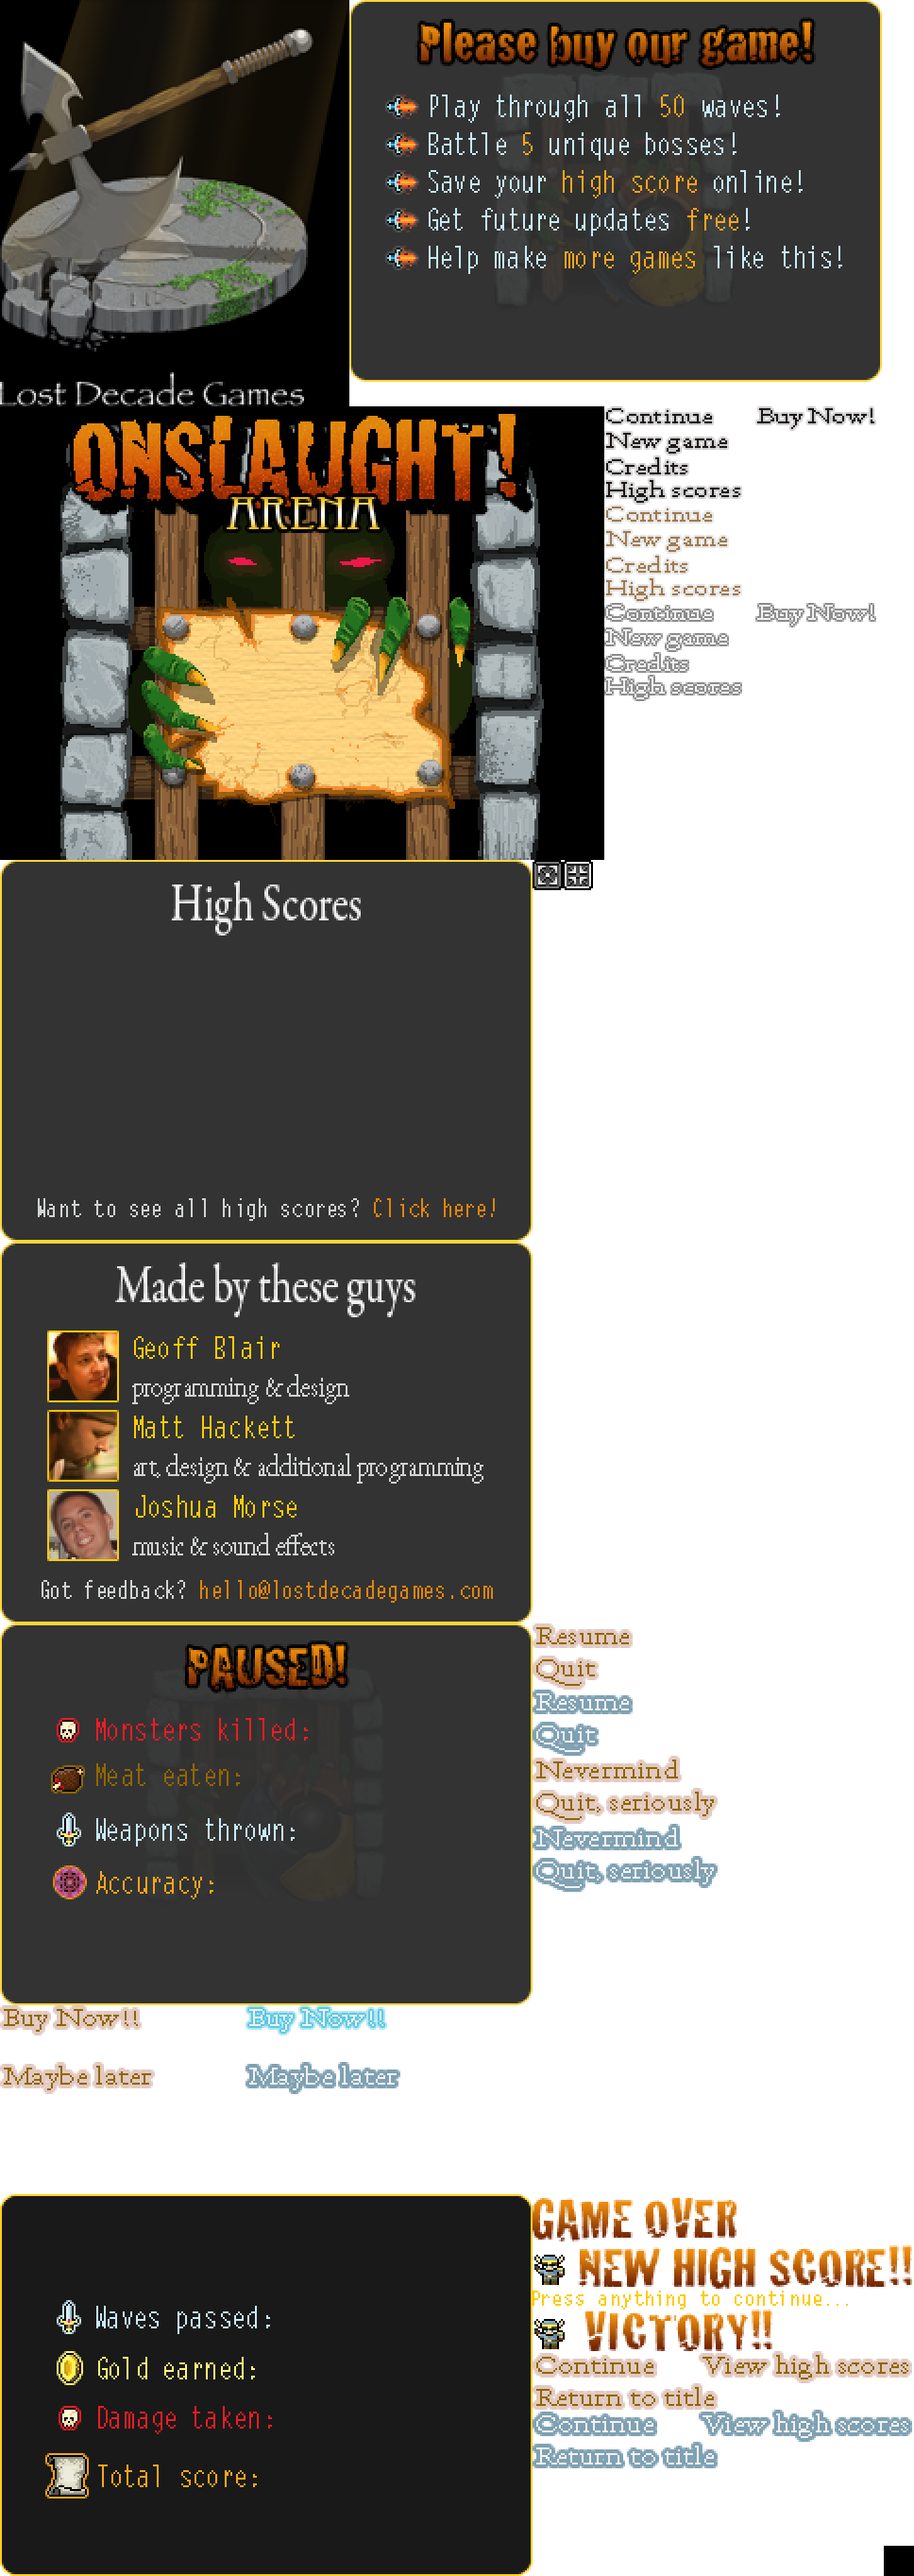
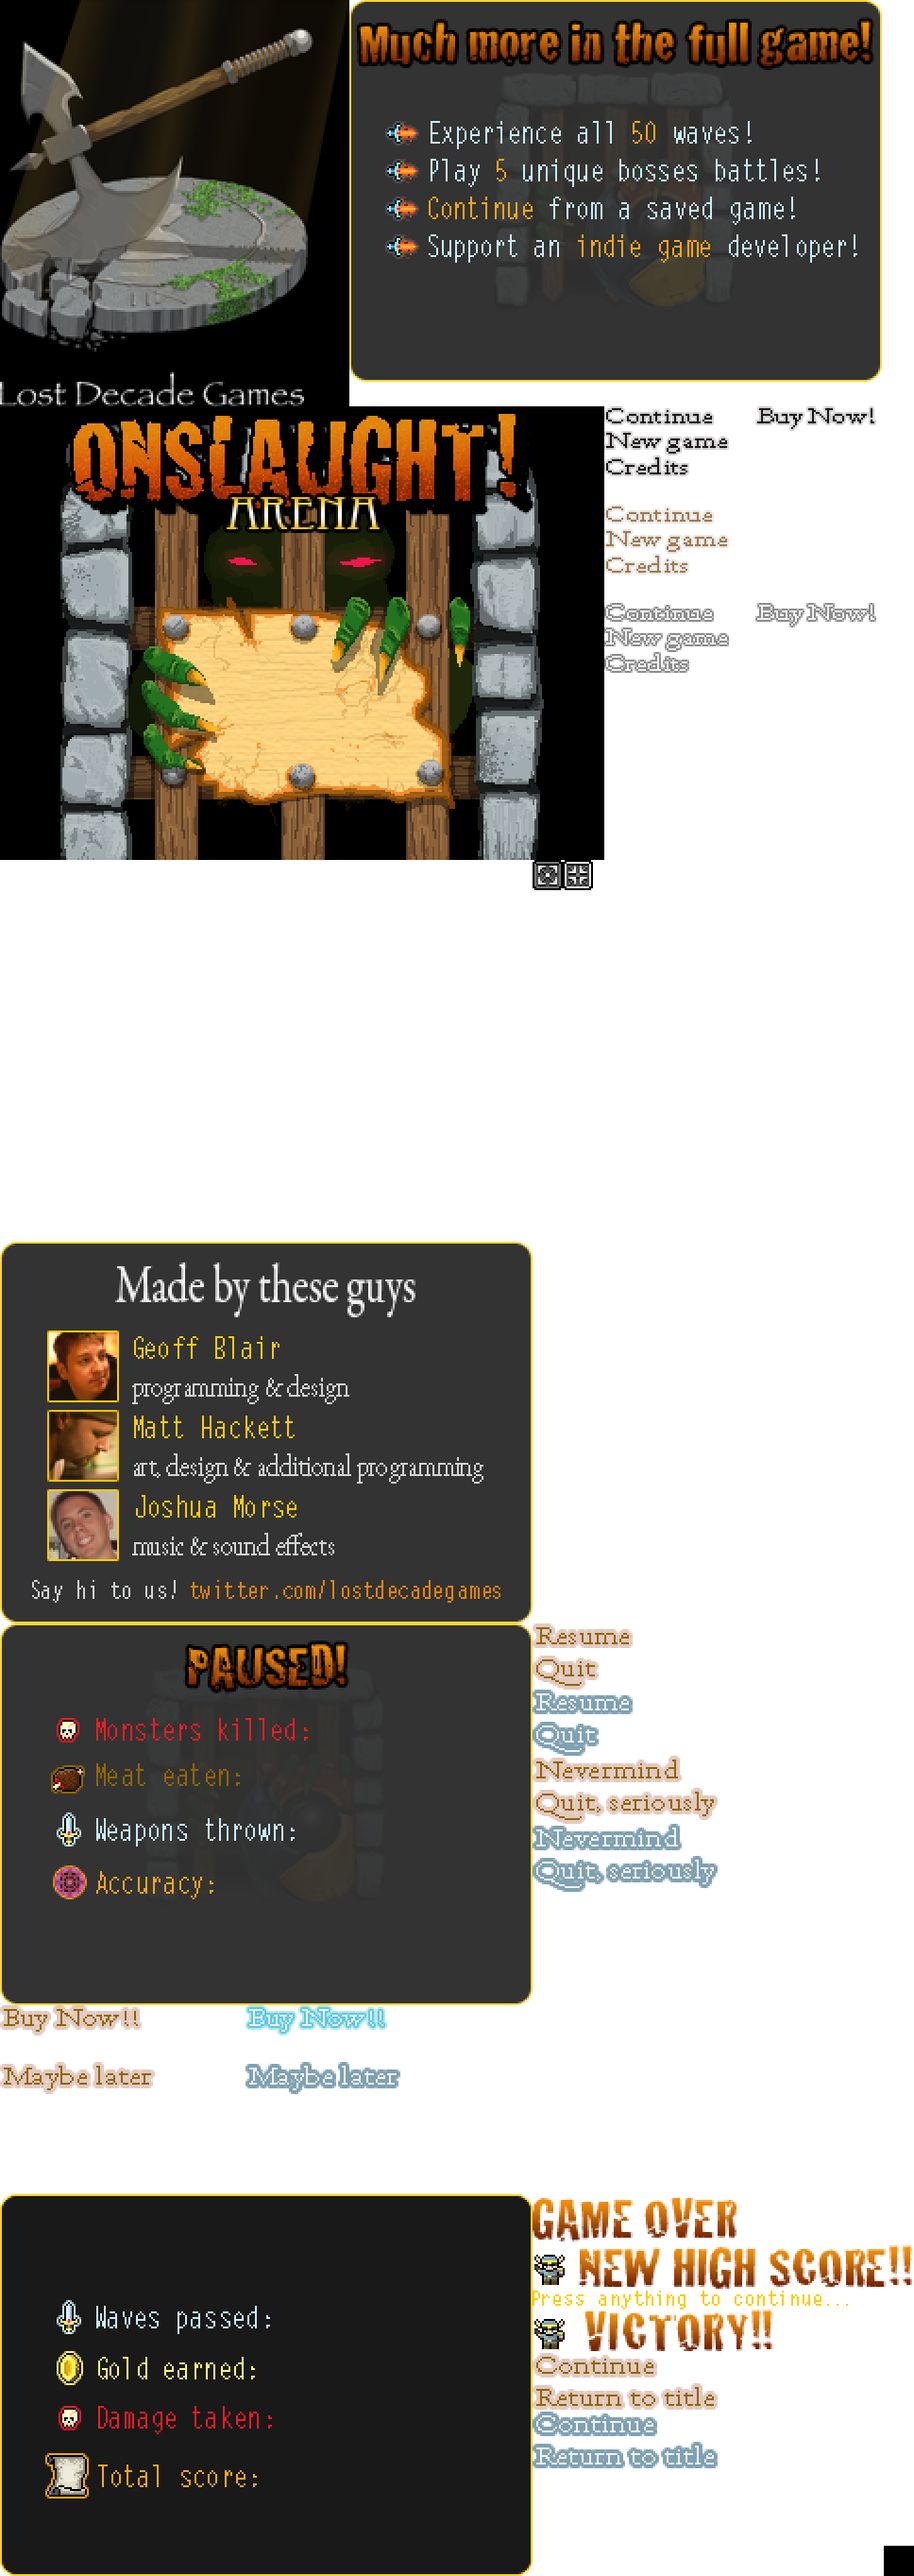
fixes #208

diff --git a/htdocs/js/engine.js b/htdocs/js/engine.js
@@ -3,7 +3,6 @@
 var VERSION = "{{VERSION}}";
 var SCREEN_WIDTH = 640;
 var SCREEN_HEIGHT = 480;
-var URL_HIGH_SCORES = "/onslaught_arena/high_scores";
 var URL_STORE = "https://chrome.google.com/extensions/detail/khodnfbkbanejphecblcofbghjdgfaih";
 
 var DEFAULT_HIGH_SCORE = 1000;
@@ -942,11 +941,6 @@ proto.update = function horde_Engine_proto_update () {
 			this.render();
 			break;
 
-		case "high_scores":
-			this.handleInput();
-			this.render();
-			break;
-			
 		case "intro_cinematic":
 			this.handleInput();
 			this.updateIntroCinematic(elapsed);
@@ -1396,10 +1390,6 @@ proto.updateGameOver = function horde_Engine_proto_updateGameOver (elapsed) {
 		}
 	}
 
-};
-
-proto.saveHighScores = function horde_Engine_proto_saveHighScores () {
-	return !horde.isDemo();
 };
 
 proto.openGates = function horde_Engine_proto_openGates () {
@@ -2340,20 +2330,6 @@ proto.handleInput = function horde_Engine_proto_handleInput () {
 			}
 		}
 
-		// High scores
-		if (this.saveHighScores()) {
-			startY += POINTER_HEIGHT;
-			if (
-				(mouseV.x >= startX && mouseV.x <= stopX)
-				&& (mouseV.y >= startY && mouseV.y < (startY + 20))
-			) {
-				if (this.mouse.hasMoved && this.pointerY !== 3) newPointerY = 3;
-				if (this.mouse.isButtonDown(buttons.LEFT)) {
-					this.keyboard.keyStates[keys.SPACE] = true;
-				}
-			}
-		}
-
 		if (kb.isKeyPressed(keys.ENTER) || kb.isKeyPressed(keys.SPACE)) {
 
 			horde.sound.play("select_pointer");
@@ -2393,9 +2369,6 @@ proto.handleInput = function horde_Engine_proto_handleInput () {
 					break;
 				case 2: // Credits
 					this.state = "credits";
-					break;
-				case 3: // High scores
-					this.state = "high_scores";
 					break;
 			}
 
@@ -2453,21 +2426,8 @@ proto.handleInput = function horde_Engine_proto_handleInput () {
 
 	}
 
-	// Want to see all high scores? Click here!
-	if (this.state === "high_scores") {
-		if (this.mouse.isButtonDown(buttons.LEFT)) {
-			if ((mouseV.x > 76) && (mouseV.x < 560)) {
-				if ((mouseV.y > 392) && (mouseV.y < 416)) {
-					location.href = URL_HIGH_SCORES;
-					return;
-				}
-			}
-		}
-	}
-
 	if (
 		(this.state === "credits")
-		|| (this.state === "high_scores")
 	) {
 		if (this.keyboard.isAnyKeyPressed() || this.mouse.isAnyButtonDown()) {
 			kb.clearKeys();
@@ -2890,12 +2850,6 @@ proto.render = function horde_Engine_proto_render () {
 		case "credits":
 			this.drawTitle(ctx);
 			this.drawCredits(ctx);
-			break;
-
-		// High Scores
-		case "high_scores":
-			this.drawTitle(ctx);
-			this.drawHighScores(ctx);
 			break;
 
 		case "intro_cinematic":
@@ -3839,18 +3793,6 @@ proto.drawTitlePointerOptions = function horde_Engine_proto_drawTitlePointerOpti
 		POINTER_X, (startY + (POINTER_HEIGHT * 2)), 90, 22
 	);
 
-	// High scores
-	if (this.saveHighScores()) {
-		spriteY = ((this.pointerY == 3) ? 714 : 506);
-	} else {
-		spriteY = 610;
-	}
-	ctx.drawImage(
-		this.preloader.getImage("ui"),
-		640, spriteY, 146, 28,
-		POINTER_X, (startY + (POINTER_HEIGHT * 3)), 146, 28
-	);
-
 };
 
 proto.drawPausedPointerOptions = function horde_Engine_proto_drawPausedPointerOptions (ctx) {
@@ -3900,7 +3842,7 @@ proto.initOptions = function () {
 
 	switch (this.state) {
 		case "title":
-			this.pointerYStart = 300;
+			this.pointerYStart = 314;
 
 			if (horde.isDemo() || this.canContinue()) {
 				this.pointerY = 0;
@@ -3909,11 +3851,7 @@ proto.initOptions = function () {
 				this.pointerY = 1;
 				this.pointerOptionsStart = 1;
 			}
-			if (this.saveHighScores()) {
-				this.maxPointerY = 3;
-			} else {
-				this.maxPointerY = 2;
-			}
+			this.maxPointerY = 2;
 			break;
 		case "running":
 			this.pointerYStart = 378;
@@ -3930,68 +3868,6 @@ proto.initOptions = function () {
 			break;
 	}
 
-};
-
-proto.drawHighScores = function horde_Engine_proto_drawHighScores (ctx) {
-	ctx.save();
-	ctx.globalAlpha = OVERLAY_ALPHA;
-	ctx.fillRect(0, 0, this.view.width, this.view.height);
-
-	ctx.globalAlpha = 1;
-	ctx.drawImage(
-		this.preloader.getImage("ui"),
-		0, 910, 564, 404,
-		38, 38, 564, 404
-	);
-
-	try {
-		var scores = JSON.parse(window.onslaughtScores);
-	} catch (e) {
-		var scores = null;
-	}
-
-	ctx.font = "Bold 40px Cracked";
-
-	/*
-	// Debug data
-	scores = [
-		{name: "test1", value: 1000},
-		{name: "test2", value: 900},
-		{name: "test3", value: 800},
-		{name: "test4", value: 700},
-		{name: "test5", value: 600},
-		{name: "test6", value: 200},
-		{name: "test7", value: 500},
-		{name: "test8", value: 400},
-		{name: "test9", value: 300},
-		{name: "test10", value: 100}
-	];
-	*/
-
-	if (scores && scores.length) {
-		var height = 50;
-		var max = 5;
-		if (scores.length < max) max = scores.length;
-
-		for (var i = 0; i < max; ++i) {
-			var score = scores[i];
-			var name = ((i+1) + ".   " + score.name);
-
-			ctx.fillStyle = COLOR_WHITE;
-			ctx.textAlign = "left";
-			ctx.fillText(name, 100, (160 + (i * height)));
-
-			ctx.fillStyle = "rgb(255, 203, 5)";
-			ctx.textAlign = "right";
-			ctx.fillText(score.value, 500, (160 + (i * height)));
-		}
-	} else {
-		ctx.fillStyle = COLOR_WHITE;
-		ctx.textAlign = "center";
-		ctx.fillText("None yet. Submit yours!", 320, 240);
-	}
-
-	ctx.restore();
 };
 
 proto.drawCredits = function horde_Engine_proto_drawCredits (ctx) {
@@ -4163,27 +4039,6 @@ proto.endGame = function () {
 	this.updateGameOver();
 	this.state = "game_over";
 	this.timePlayed = (horde.now() - this.gameStartTime);
-};
-
-proto.sendHighScore = function (highScore, meta) {
-	if (window.ldgHash) {
-		var hash = decodeURIComponent(window.ldgHash);
-	} else {
-		var hash = "ldgftw";
-	}
-	var data = "high_score=" + highScore;
-	data += "&x=" + encodeURIComponent(horde.x(data, hash));
-	data += "&app_id=onslaught_arena";
-	if (meta) {
-		data += "&m=" + encodeURIComponent(horde.x(JSON.stringify(meta), hash));
-	}
-	data += "&y=" + encodeURIComponent(horde.x(HIGH_SCORE_KEY, hash));
-	data += "&z=" + encodeURIComponent(horde.x(this.state, hash));
-	data += "&t=" + horde.Timer.now();
-	var xhr = new XMLHttpRequest();
-	xhr.open("POST", "/api");
-	xhr.setRequestHeader("Content-Type", "application/x-www-form-urlencoded; charset=UTF-8");
-	xhr.send(data);
 };
 
 proto.toggleFullscreen = function () {

diff --git a/htdocs/index.html b/htdocs/index.html
@@ -37,7 +37,9 @@
 	<script src="js/keyboard.js"></script>
 	<script src="js/mouse.js"></script>
 	<script src="js/waves_full.js"></script>
-	<!-- <script src="js/waves_demo.js"></script> -->
+	<!--
+	<script src="js/waves_demo.js"></script>
+	-->
 	<script src="js/engine.js"></script>
 	<script src="js/object.js"></script>
 	<script src="js/object_types.js"></script>
